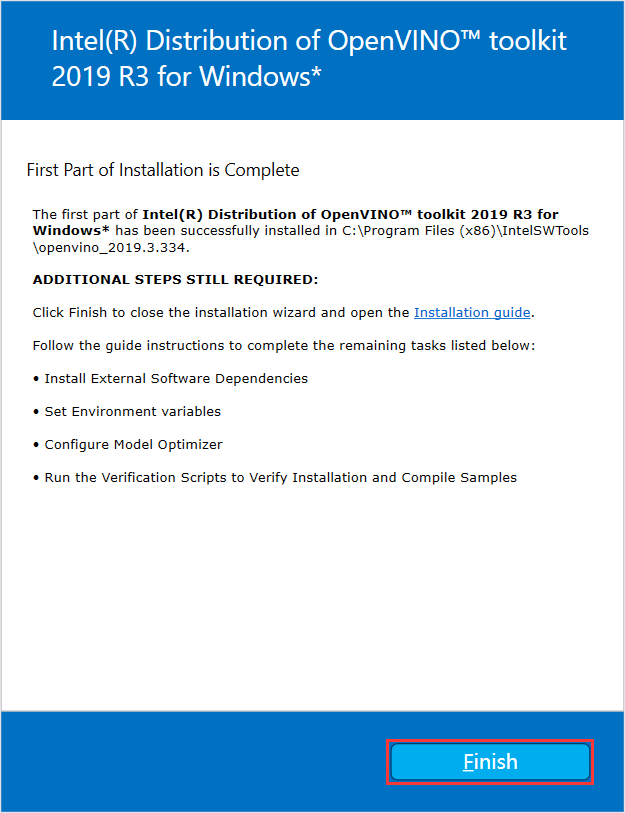
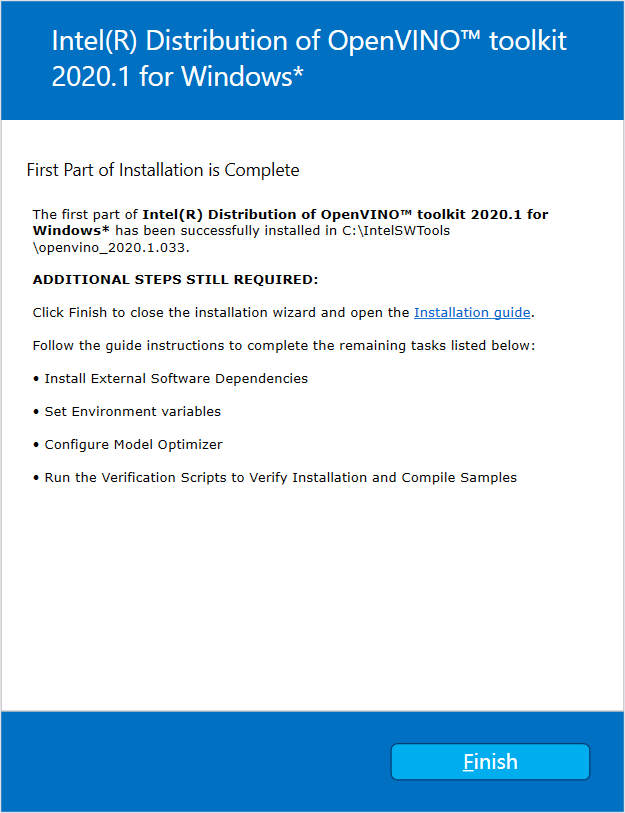
“Modify VS2019 to VS2017 and 2019 R3 to 2020 1”

diff --git a/docs/OpenVINO学习笔记.md b/docs/OpenVINO学习笔记.md
@@ -4,7 +4,7 @@
  * @作者: LiWanglin
  * @创建时间: 2020.03.02
  * @最后编辑人: LiWanglin
- * @最后编辑时间: 2020.03.02
+ * @最后编辑时间: 2020.03.09
  -->
 
 # OpenVINO 学习笔记
@@ -20,12 +20,12 @@
 
 ### 1.2 OpenVINO 组成
 
-- OpenVINO 主要由四个模块组成，分别是：推断引擎，模型优化器，预训练模型，数据代码。
-![四个主要模块](./doc_images/four_modules.png)
+- OpenVINO 工具包组件：
+![](./doc_images/OpenVINO_toolkit_modules.png)
 
 ## 二. OpenVINO 环境配置
 
-- 本节主要讲解如何配置 OpenVINO ，包括如何安装 OpenVINO 以及如何在 VS2019 配置 OpenVINO 的开发环境。
+- 本节主要讲解如何配置 OpenVINO ，包括如何安装并配置 OpenVINO 以及如何在 VS2017 配置 OpenVINO 的开发环境。
 
 ### 2.1 准备工作
 
@@ -35,7 +35,7 @@
   - Python 3.6.5 以上
 
 - 我的软件安装版本:
-  - VS2019 社区版
+  - VS2017 社区版
   - CMake 3.16.0
   - Python 3.6.9
 
@@ -45,196 +45,35 @@
 
 (1) 下载 OpenVINO
 
-- 进入网站：[OpenVINO](https://software.seek.intel.com/openvino-toolkit?os=windows)，下载OpenVINO ，如果要注册才能下载，那先注册。选择 2019.R3 版本和 Full Package 下载。
-![OpenVINO_Download](./doc_images/OpenVINO_Download.png)
+- 进入网站：[OpenVINO](https://software.seek.intel.com/openvino-toolkit?os=windows)，下载OpenVINO ，如果要注册才能下载，那先注册。选择 2020 1 版本和 Full Package 下载。
+![OpenVINO_Download](./doc_images/OpenVINO_download.png)
 
 (2) 安装 OpenVINO 工具包
 
 - 下载完 OpenVINO ，双击软件包，进入安装页面![install_openvino_toolkit](./doc_images/install_openvino_toolkit.png)
-- 注意安装路径以及选择全部的组件，然后一路点击 Next，最后点击 Finsh，组件安装完成。![openvino_toolkit_install_finish](./doc_images/openvino_toolkit_install_finish.png)
+- 注意安装路径以及选择的组件，然后一路点击 Next，最后点击 Finsh，组件安装完成。![openvino_toolkit_install_finish](./doc_images/openvino_toolkit_install_finish.png)
 
 (3) 初始化 OpenVINO
 
 - 打开 CMD ，然后进入以下目录
 
     ```C++
-    C:\Program Files (x86)\IntelSWTools\openvino_2019.3.334\bin
+    C:\IntelSWTools\openvino_2020.1.033\bin
     ```
 
 - 输入 setupvars.bat ，执行初始化脚本
-![initialzed_openvino](./doc_images/initialized_openvino.png)
+![set_openvino_environment_path](./doc_images/set_openvino_environment_path.png)
 
 (4) 运行测试 Demo
 
 - 进入以下目录
 
     ```C++
-    C:\Program Files (x86)\IntelSWTools\openvino_2019.3.334\deployment_tools\demo
+    C:\IntelSWTools\openvino_2020.1.033\deployment_tools\demo
     ```
 
 - 输入 demo_security_barrier_camera.bat ，执行测试脚本
 ![run_demo](./doc_images/run_demo.png)
 
 - 如果 OpenVINO 安装成功，则会出现以下结果
-![demo_result](./doc_images/demo_result.png)
-
-### 2.3 基于 VS2019 的开发环境配置
-
-- 要想在 VS2019 上使用 OPenVINO 进行加速优化，我们需要进行一系列的配置，包括：配置 VC++ 的包含目录，VC++ 的库目录，附加依赖库，添加环境变量等。
-
-(1) 新建项目
-
-- 打开 VS2019 ，点击创建新项目，然后创建一个空项目。这里，我创建的项目名称为：openvino_test 。
-![creat_project](./doc_images/creat_project.png)
-
-(2) 编译 samples
-
-- 编译 samples 是为了后面在 VS2019 里面添加库目录
-- 打开 cmd ，进入目录：
-
-  ```C++
-  C:\Program Files (x86)\IntelSWTools\openvino_2019.3.334\inference_engine\samples
-  ```
-
-- 执行 build_samples_msvc.bat 文件，完成编译
-![build_samples](./doc_images/build_samples.png)
-- 编译完成后，会在
- 
-  ```C++
-  C:\Users\XXX\Documents\Intel
-  ```
-
-  生成一个 OpenVINO 文件夹
-
-- 然后进入 OpenVINO\inference_engine_samples_build 文件夹，然后使用 VS2019 打开 Samples.sln 文件。
-![Samples_file](./doc_images/Samples_file.png)
-
-- 打开文件后，右击解决方案，再点击生成解决方案
-![build_solution](./doc_images/build_solution.png)
-
-- 最后，我们会在
-
-  ```C++
-  C:\Users\LWL\Documents\Intel\OpenVINO\inference_engine_samples_build\intel64\Debug
-  ```
-
-  目录下生成一个，cpu_extension.lib 文件。这个文件我们会在后面用到。
-  ![cpu_extension](./doc_images/cpu_extension.png)
-
-(3) 设置 VS++ 目录
-
-- 在 VS2019 里面点击视图，然后点击其他窗口，再点击属性管理器。点击完成后，我们可以在右侧小窗口中看到属性管理器窗口。
-![attribute_set](./doc_images/attribute_set.png)
-- 然后在属性管理器窗口中双击 Debug|x64 ，进入 Debug 属性页。然后点击 VC++ 目录。接后，我们主要设置 **包含目录** 和 **库目录** 。
-![attribute_set_2](./doc_images/attribute_set_2.png)
-
-- 配置包含目录
-
-  ```C++
-  C:\Program Files %28x86%29\IntelSWTools\openvino_2019.3.334\deployment_tools\inference_engine\src\extension
-  C:\Program Files %28x86%29\IntelSWTools\openvino_2019.3.334\deployment_tools\inference_engine\include
-  C:\Program Files %28x86%29\IntelSWTools\openvino_2019.3.334\deployment_tools\inference_engine\samples\common\format_reader
-  C:\Program Files %28x86%29\IntelSWTools\openvino_2019.3.334\opencv\include\opencv2
-  C:\Program Files %28x86%29\IntelSWTools\openvino_2019.3.334\opencv\include
-  ```
-
-  ![set_include_meun](./doc_images/set_include_meun.png)
-
-- 配置库目录
-
-  ```C++
-  C:\Users\LWL\Documents\Intel\OpenVINO\inference_engine_samples_build\intel64\Debug
-  C:\Program Files %28x86%29\IntelSWTools\openvino_2019.3.334\deployment_tools\inference_engine\lib\intel64\Debug
-  C:\Program Files (x86)\IntelSWTools\openvino_2019.3.334\opencv\lib
-  ```
-
-  ![include_meun](./doc_images/include_meun.png)
-
-(4) 配置链接器
-
-- 我们需要添加一些附加依赖库
-![set_link](./doc_images/set_link.png)
-
-- 在附加依赖库添加
-
-  ```C++
-  inference_engined.lib
-  cpu_extension.lib
-  format_reader.lib
-  opencv_calib3d412d.lib
-  opencv_core412d.lib
-  opencv_dnn412d.lib
-  opencv_features2d412d.lib
-  opencv_flann412d.lib
-  opencv_gapi412d.lib
-  opencv_highgui412d.lib
-  opencv_imgcodecs412d.lib
-  opencv_imgproc412d.lib
-  opencv_ml412d.lib
-  opencv_objdetect412d.lib
-  opencv_photo412d.lib
-  opencv_stitching412d.lib
-  opencv_video412d.lib
-  opencv_videoio412d.lib
-  ```
-
-  ![link_lib](./doc_images/link_lib.png)
-
-(5) 添加环境变量
-
- ```C++
- C:\Program Files (x86)\IntelSWTools\openvino_2019.3.334\opencv\bin
- C:\Program Files (x86)\IntelSWTools\openvino_2019.3.334\inference_engine\bin\intel64\Debug
- C:\Program Files (x86)\IntelSWTools\openvino_2019.3.334\inference_engine\bin\intel64\Release
- C:\Users\LWL\Documents\Intel\OpenVINO\inference_engine_samples_build\intel64\Debug
- C:\Users\LWL\Documents\Intel\OpenVINO\inference_engine_samples_build\intel64\Release
- ```
-
- ![set_path_environment](./doc_images/set_path_environment.png)
-
-(6) 代码测试
-
-- 在测试代码前，我们需要重启 VS2019
-- 在源文件下添加 main.cpp 文件，然后输入代码：
-
-  ```C++
-  #include <opencv2/opencv.hpp>
-  #include <iostream>
-
-  using namespace cv;
-  using namespace std;
-
-  int main(int argc, char** argv)
-  {
-    Mat src = imread("./lenacolor.png");
-    imshow("input", src);
-    waitKey(0);
-    destroyAllWindows();
-    return 0;
-  }
-  ```
-
-  ![test_code](./doc_images/test_code.png)
-
-- 如果运行成功，则代表我们的 OpenVINO 开发环境以及配置成功。
-
-## 二. OpenVINO 使用
-
-### 2.1 OpenCV 中使用 IE 模块加速
-
-### 2.2 OpenCV 模型转换与加速
-
-(1) 安装 python 包
-
-- pip install defusedxml==0.5.0
-- pip install test_generator==0.1.1
-![uninstall_defusedxml](doc_images/uninstall_defusedxml.png)
-
-(2) 输入指令
-
-- python mo_tf.py --input_model E:\OpenVINO_Study_Log\ssd_mobilenet_v2_coco_2018_03_29\frozen_inference_graph.pb --tensorflow_use_custom_operations_config extensions\front\tf\ssd_v2_support.json --tensorflow_object_detection_api_pipeline_config E:\OpenVINO_Study_Log\ssd_mobilenet_v2_coco_2018_03_29\pipeline.config --output="detection_boxes,detection_scores,num_detections" --data_type FP32
-
-![create_xml_and_bin](./doc_images/create_xml_bin.png)
-
-(3) 代码测试
-# TODO
+![demo_result](./doc_images/run_demo_result.png)
